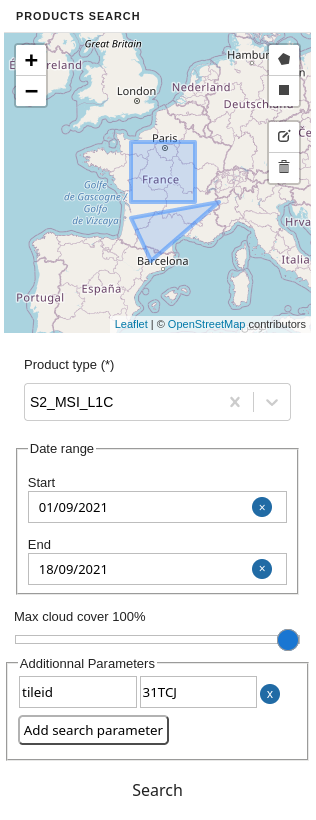
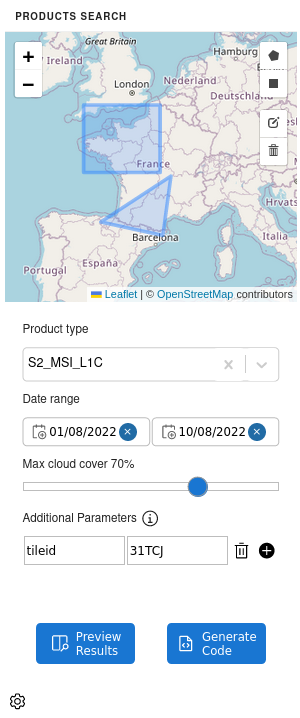
docs: documentation update (#106)

diff --git a/README.md b/README.md
@@ -63,46 +63,58 @@ Make sure that that file is configured properly.
 You can use `eodag-labextension` inside a Jupyter notebook. Start Jupyter lab with `jupyter lab`, and in Jupyter lab
 open a notebook.
 
-![extension logo](https://raw.githubusercontent.com/CS-SI/eodag-labextension/develop/notebooks/images/eodag_labext_form.png)
-
-### Search
+## Search
 
 ![extension logo](https://raw.githubusercontent.com/CS-SI/eodag-labextension/develop/notebooks/images/eodag_labext_icon.png)
-Open the EODAG tab on the left side of the JupuytuerLab interface by clicking on that icon.
+Click on this icon in the left of JupyterLab interface to open EODAG-Labextension tab.
 
-With displayed search form, you can enter select your data geographically and apply some search criteria:
+![form](https://raw.githubusercontent.com/CS-SI/eodag-labextension/develop/notebooks/images/eodag_labext_form.png)
 
-- **Product type**: the searched product type. For each entry of the drop-down list, a tooltip is displayed at
-  hovering time with corresponding description.
-- **Start date**: minimal date of the search temporal window.
-- **End date**: maximal date of the search temporal window.
-- **Max cloud cover**: maximum cloud cover allowed in search results in percent.
-- **Additional parameters**: used to enter key-value pairs criteria for the request.
+With displayed search form, you can enter search extent and following search criteria:
 
-You can draw multiple extents, or use none. Each extent can be a rectangle or a free polygon.
-Product type is mandatory. Other criteria are optional.
+- **Product type**: the searched product type. List filtering is performed using product types description keywords.
+  For each entry of the drop-down list, a tooltip is displayed at hovering time with corresponding description.
+  ![product types](https://raw.githubusercontent.com/CS-SI/eodag-labextension/develop/notebooks/images/eodag_labext_product_types.png)
 
-Once search criteria are filled out, click on the "Search" button to proceed to next step. At the end of the search,
-a popup opens and displays results.
+- **Date range**: minimal and maximal dates of the search temporal window.
+- **Max cloud cover**: maximum cloud cover allowed in search results in percent. 100% will disable cloud cover
+  filtering.
+- **Additional parameters**: used to enter key-value pairs criteria for the request. See
+  [available parameters in EODAG documentation](https://eodag.readthedocs.io/en/stable/add_provider.html#opensearch-parameters-csv).
+
+As **search geometry** you can draw multiple extents, or use none. Each extent can be a rectangle or a free polygon.
+
+_Product type is mandatory. Other criteria are optional._
+
+Once search criteria are filled out, click on:
+
+- `Generate Code` to automatically generate and insert the corresponding eodag search code bellow the active cell.
+- `Preview Results` to perform a search in background, display results, and generate search code in a second step.
+
+![settings logo](https://raw.githubusercontent.com/CS-SI/eodag-labextension/develop/notebooks/images/eodag_labext_settings_icon.png)
+Click on this icon to open EODAG-Labextension settings. You will be enable to choose whether newly inserted code should
+replace existing search code or not.
 
 ### Results overview
 
+![extension popup](https://raw.githubusercontent.com/CS-SI/eodag-labextension/develop/notebooks/images/eodag_labext_popup.png)
+
 The results overview popup is compopsed of 3 parts:
 
-- a map showing products extent
-- a table listing products
+- a map showing products extent,
+- a table listing products,
 - a pane containing metadata for currently selected product.
 
 The results table allows you to access product metadata by clicking on the desired product line. The magnifying glass
 button allows you to zoom in on the product's in the map view. By scrolling down in the list of results, the search is
 automatically restarted to retrieve the following results.
 
-In the metadata view, clicking on the thumbnail displays it in native resolution. Clicking it again reduces its size
+In the metadata view, clicking on the _Quicklook_ displays it in native resolution. Clicking it again reduces its size
 again.
 
 ### Apply to the Jupyter notebook
 
-If the search result is correct, clicking on the "`Apply`" button will insert the Python eodag code in a new cell
+If the search result is correct, clicking on the "`Generate code`" button will insert the Python eodag code in a new cell
 after the selected cell of the currently open notebook. The popup is automatically closed. From there, it is possible
 to work in the notebook on the search results by executing the eodag search.
 
